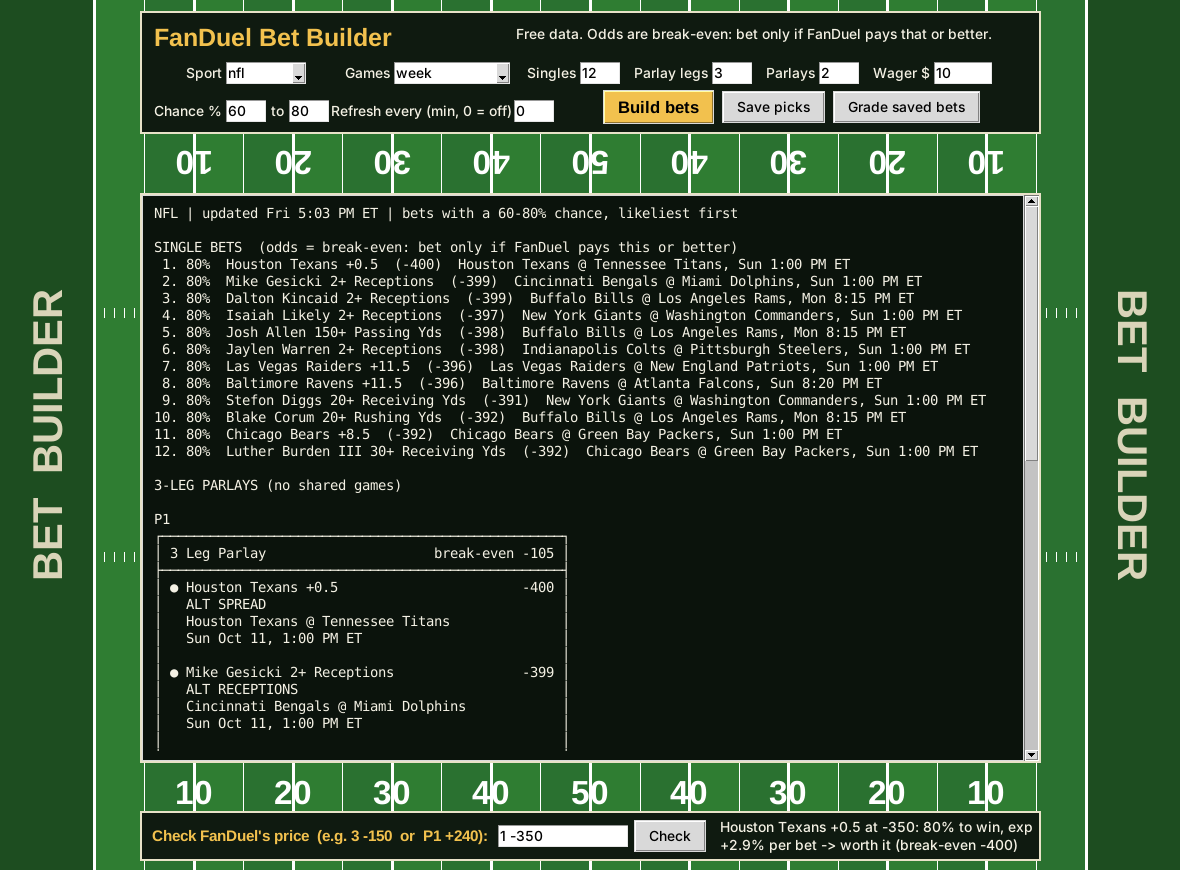
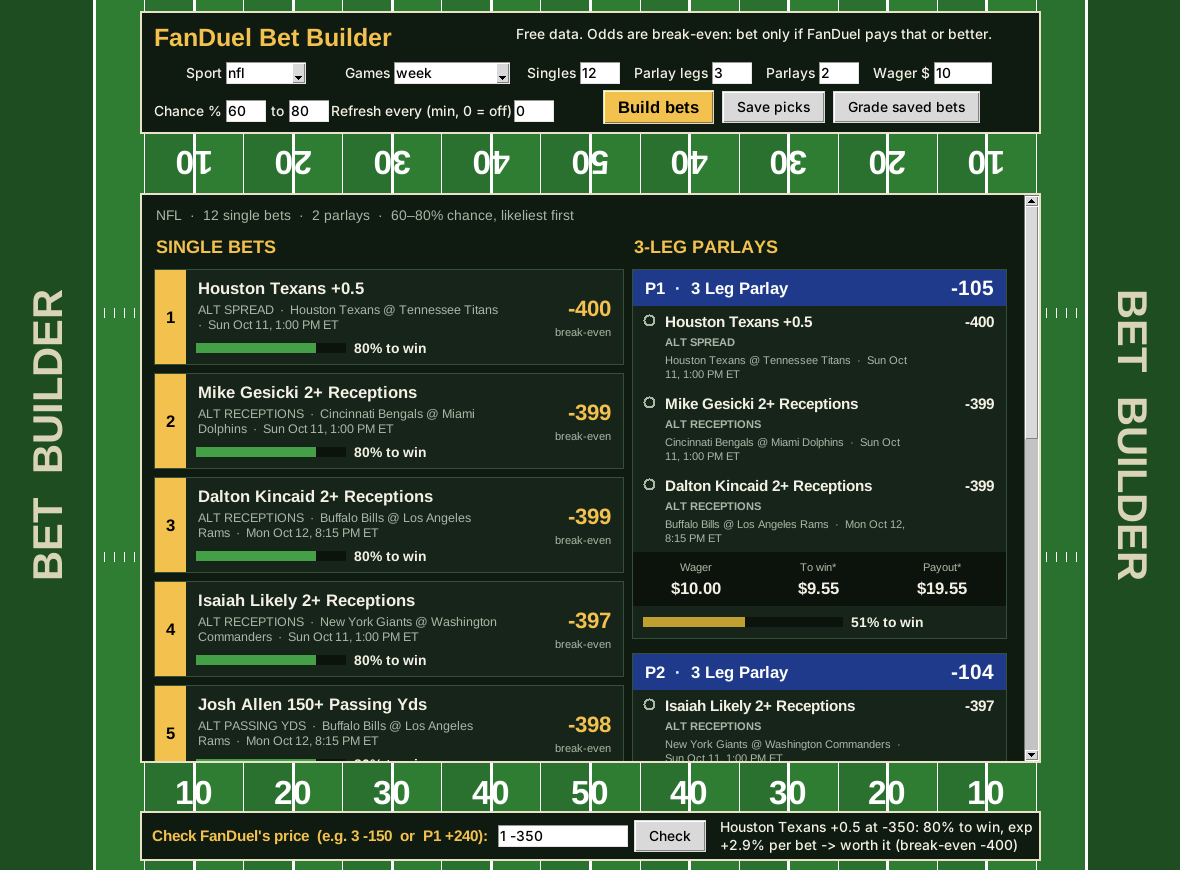
Show single bets and parlays as styled cards in the window
Single bets become numbered cards with the pick, market, game and kickoff,
a colored chance bar and a break-even odds badge (plus NEW / moved badges
on refresh). Parlays become slips with a header, legs with odds, a wager /
to-win / payout footer and a chance bar, in a scrollable two-column view.

Claude-Session: https://claude.ai/code/session_01FzCvELGmhGBdoQHEqCEwdE

diff --git a/bets_gui.py b/bets_gui.py
@@ -20,6 +20,8 @@ from tkinter import ttk
 
 import bets  # sets up paths for the standalone build
 from nfl_edge import data
+from nfl_edge.cli import _fmt_american, _slip_market, _slip_selection, _slip_time
+from nfl_edge.odds import decimal_to_american
 
 W, H = 1180, 870
 PANEL_W = W - 2 * W * 0.08 - 90  # leaves turf visible on both sides
@@ -28,6 +30,31 @@ TURF = ("#2f7d32", "#2a7130")  # alternating 5-yard stripes
 ENDZONE = "#1d4d20"
 PANEL, PANEL_EDGE, INK, GOLD = "#0f1a10", "#e8e2c8", "#f4f1e4", "#f2c14e"
 MONO = ("Menlo", 11) if sys.platform == "darwin" else ("Consolas", 10)
+CARD, CARD_EDGE, MUTED, SLIP_HEAD = "#16241a", "#35503a", "#a9b8a4", "#1f3a8a"
+NEW_BADGE, MOVED_BADGE = "#2e7dd1", "#b8741a"
+
+
+def chance_color(p: float) -> str:
+    """Green for likely, amber for middling, red for unlikely."""
+    if p >= 0.7:
+        return "#43a047"
+    if p >= 0.5:
+        return "#c0a030"
+    return "#c0503a"
+
+
+def chance_bar(parent: tk.Widget, p: float, bg: str, width: int = 150) -> tk.Frame:
+    row = tk.Frame(parent, bg=bg)
+    bar = tk.Canvas(row, width=width, height=10, bg="#0b130c", highlightthickness=0)
+    bar.create_rectangle(0, 0, width * p, 10, fill=chance_color(p), outline="")
+    bar.pack(side="left")
+    tk.Label(row, text=f"{p:.0%} to win", bg=bg, fg=INK,
+             font=("Helvetica", 10, "bold")).pack(side="left", padx=6)
+    return row
+
+
+def pill(parent: tk.Widget, text: str, bg: str, fg: str = "white") -> tk.Label:
+    return tk.Label(parent, text=f" {text} ", bg=bg, fg=fg, font=("Helvetica", 9, "bold"))
 
 
 def draw_field(c: tk.Canvas) -> None:
@@ -125,12 +152,18 @@ class App:
 
         # Output
         out = tk.Frame(c, bg=PANEL, highlightbackground=PANEL_EDGE, highlightthickness=2)
-        self.text = tk.Text(out, bg="#0b130c", fg=INK, insertbackground=INK, font=MONO,
-                            wrap="none", relief="flat", padx=10, pady=8)
-        scroll = ttk.Scrollbar(out, command=self.text.yview)
-        self.text.configure(yscrollcommand=scroll.set)
+        self.view = tk.Canvas(out, bg=PANEL, highlightthickness=0)
+        scroll = ttk.Scrollbar(out, command=self.view.yview)
+        self.view.configure(yscrollcommand=scroll.set)
         scroll.pack(side="right", fill="y")
-        self.text.pack(side="left", fill="both", expand=True)
+        self.view.pack(side="left", fill="both", expand=True)
+        self.body = tk.Frame(self.view, bg=PANEL)
+        self.view.create_window(0, 0, window=self.body, anchor="nw")
+        self.body.bind("<Configure>",
+                       lambda e: self.view.configure(scrollregion=self.view.bbox("all")))
+        for seq, step in (("<MouseWheel>", None), ("<Button-4>", -1), ("<Button-5>", 1)):
+            root.bind_all(seq, lambda e, s=step: self.view.yview_scroll(
+                s if s else (-1 if e.delta > 0 else 1) * (1 if sys.platform == "darwin" else 1), "units"))
         c.create_window(W / 2, 478, window=out, width=PANEL_W, height=570)
 
         # Price checker
@@ -159,10 +192,120 @@ class App:
             stake=float(self.stake.get() or 10), min_prob=float(self.lo.get() or 60),
             max_prob=float(self.hi.get() or 80), per_game=3, allow_overlap=False, games_file=None)
 
+    def clear(self) -> None:
+        for w in self.body.winfo_children():
+            w.destroy()
+        self.view.yview_moveto(0)
+
     def say(self, text: str, clear: bool = True) -> None:
+        """Plain text (messages, grading results) in the output area."""
         if clear:
-            self.text.delete("1.0", "end")
-        self.text.insert("end", text)
+            self.clear()
+        tk.Label(self.body, text=text, bg=PANEL, fg=INK, font=MONO, justify="left",
+                 anchor="nw").pack(anchor="nw", padx=12, pady=10)
+
+    def render(self, args, singles, parlays, previous) -> None:
+        self.clear()
+        head = tk.Frame(self.body, bg=PANEL)
+        head.pack(fill="x", padx=12, pady=(10, 4))
+        tk.Label(head, text=f"{args.sport.upper()}  ·  {len(singles)} single bets  ·  "
+                            f"{len(parlays)} parlays  ·  {args.min_prob:.0f}–{args.max_prob:.0f}% "
+                            "chance, likeliest first",
+                 bg=PANEL, fg=MUTED, font=("Helvetica", 10)).pack(side="left")
+        cols = tk.Frame(self.body, bg=PANEL)
+        cols.pack(fill="both", padx=8)
+        left, right = tk.Frame(cols, bg=PANEL), tk.Frame(cols, bg=PANEL)
+        left.pack(side="left", anchor="n", padx=4)
+        right.pack(side="left", anchor="n", padx=4)
+        # Invisible struts fix each column's width so both fit the window.
+        tk.Frame(left, bg=PANEL, width=470, height=1).pack()
+        tk.Frame(right, bg=PANEL, width=375, height=1).pack()
+
+        tk.Label(left, text="SINGLE BETS", bg=PANEL, fg=GOLD,
+                 font=("Helvetica", 13, "bold")).pack(anchor="w", pady=(4, 6))
+        if not singles:
+            tk.Label(left, text="None found. Try a wider chance range or another date.",
+                     bg=PANEL, fg=INK).pack(anchor="w")
+        for i, b in enumerate(singles, 1):
+            self.single_card(left, i, b, previous)
+
+        tk.Label(right, text=f"{args.legs}-LEG PARLAYS", bg=PANEL, fg=GOLD,
+                 font=("Helvetica", 13, "bold")).pack(anchor="w", pady=(4, 6))
+        if args.parlays and not parlays:
+            tk.Label(right, text="Not enough games for that many legs.", bg=PANEL,
+                     fg=INK).pack(anchor="w")
+        for i, p in enumerate(parlays, 1):
+            self.parlay_card(right, i, p, args.stake)
+        tk.Label(self.body, text="Odds shown are break-even: bet only if FanDuel pays that or "
+                                 "better. Check a price at the bottom.",
+                 bg=PANEL, fg=MUTED, font=("Helvetica", 9)).pack(anchor="w", padx=12, pady=8)
+
+    def single_card(self, parent, i: int, b, previous) -> None:
+        card = tk.Frame(parent, bg=CARD, highlightbackground=CARD_EDGE, highlightthickness=1)
+        card.pack(fill="x", pady=4)
+        tk.Label(card, text=str(i), bg=GOLD, fg="black", width=3,
+                 font=("Helvetica", 12, "bold")).pack(side="left", fill="y")
+        mid = tk.Frame(card, bg=CARD)
+        mid.pack(side="left", fill="both", expand=True, padx=10, pady=6)
+        top = tk.Frame(mid, bg=CARD)
+        top.pack(fill="x")
+        tk.Label(top, text=_slip_selection(b), bg=CARD, fg=INK,
+                 font=("Helvetica", 12, "bold")).pack(side="left")
+        old = previous.get(bets.label(b)) if previous else None
+        if previous and old is None:
+            pill(top, "NEW", NEW_BADGE).pack(side="left", padx=6)
+        elif old is not None and abs(old - b.fair_prob) >= 0.02:
+            pill(top, f"was {old:.0%}", MOVED_BADGE).pack(side="left", padx=6)
+        tk.Label(mid, text=f"{_slip_market(b)}  ·  {b.game}  ·  {_slip_time(b)}", bg=CARD,
+                 fg=MUTED, font=("Helvetica", 9), wraplength=300, justify="left").pack(anchor="w")
+        chance_bar(mid, b.fair_prob, CARD).pack(anchor="w", pady=(4, 0))
+        right = tk.Frame(card, bg=CARD)
+        right.pack(side="right", padx=10)
+        tk.Label(right, text=_fmt_american(decimal_to_american(1 / b.fair_prob)), bg=CARD,
+                 fg=GOLD, font=("Helvetica", 16, "bold")).pack(anchor="e")
+        tk.Label(right, text="break-even", bg=CARD, fg=MUTED,
+                 font=("Helvetica", 8)).pack(anchor="e")
+        if b.priced:
+            tk.Label(right, text=f"consensus {_fmt_american(b.fd_price)}", bg=CARD, fg=MUTED,
+                     font=("Helvetica", 8)).pack(anchor="e")
+
+    def parlay_card(self, parent, i: int, p, wager: float) -> None:
+        card = tk.Frame(parent, bg=CARD, highlightbackground=CARD_EDGE, highlightthickness=1)
+        card.pack(fill="x", pady=(4, 10))
+        odds = _fmt_american(decimal_to_american(1 / p.win_prob))
+        head = tk.Frame(card, bg=SLIP_HEAD)
+        head.pack(fill="x")
+        tk.Label(head, text=f"P{i}  ·  {len(p.legs)} Leg Parlay", bg=SLIP_HEAD, fg="white",
+                 font=("Helvetica", 12, "bold")).pack(side="left", padx=10, pady=6)
+        tk.Label(head, text=odds, bg=SLIP_HEAD, fg="white",
+                 font=("Helvetica", 15, "bold")).pack(side="right", padx=10)
+        for b in p.legs:
+            leg = tk.Frame(card, bg=CARD)
+            leg.pack(fill="x", padx=10, pady=5)
+            dot = tk.Canvas(leg, width=12, height=12, bg=CARD, highlightthickness=0)
+            dot.create_oval(1, 1, 11, 11, outline=MUTED, width=2)
+            dot.pack(side="left", anchor="n", pady=3)
+            tk.Label(leg, text=_fmt_american(decimal_to_american(1 / b.fair_prob)), bg=CARD,
+                     fg=INK, font=("Helvetica", 11, "bold")).pack(side="right", anchor="n")
+            txt = tk.Frame(leg, bg=CARD)
+            txt.pack(side="left", padx=8)
+            tk.Label(txt, text=_slip_selection(b), bg=CARD, fg=INK, wraplength=250,
+                     justify="left", font=("Helvetica", 11, "bold")).pack(anchor="w")
+            tk.Label(txt, text=_slip_market(b), bg=CARD, fg=MUTED,
+                     font=("Helvetica", 8, "bold")).pack(anchor="w")
+            tk.Label(txt, text=f"{b.game}  ·  {_slip_time(b)}", bg=CARD, fg=MUTED,
+                     font=("Helvetica", 8), wraplength=250, justify="left").pack(anchor="w")
+        foot = tk.Frame(card, bg="#0b130c")
+        foot.pack(fill="x")
+        payout = wager / p.win_prob
+        for title, value in (("Wager", f"${wager:,.2f}"), ("To win*", f"${payout - wager:,.2f}"),
+                             ("Payout*", f"${payout:,.2f}")):
+            box = tk.Frame(foot, bg="#0b130c")
+            box.pack(side="left", expand=True, pady=6)
+            tk.Label(box, text=title, bg="#0b130c", fg=MUTED, font=("Helvetica", 8)).pack()
+            tk.Label(box, text=value, bg="#0b130c", fg=INK,
+                     font=("Helvetica", 12, "bold")).pack()
+        chance_bar(card, p.win_prob, CARD, width=200).pack(anchor="w", padx=10, pady=6)
 
     def build(self) -> None:
         try:
@@ -195,14 +338,14 @@ class App:
             self.say(f"Couldn't load data: {item[1]}\n")
         else:
             _, args, self.singles, self.parlays, text = item
-            self.say(text.lstrip("\n"))
+            self.render(args, self.singles, self.parlays, self.previous)
             self.previous = {bets.label(b): b.fair_prob for b in self.singles}
             minutes = float(self.refresh.get() or 0)
             if minutes > 0:
                 data.FRESH_SECONDS = min(data.FRESH_SECONDS, minutes * 60)
                 self.root.after(int(minutes * 60_000), self.build)
         if self.selftest:
-            print(self.text.get("1.0", "end")[:400])
+            print(f"{len(self.singles)} singles, {len(self.parlays)} parlays rendered")
             self.root.after(500, self.root.destroy)
             return
         self.root.after(150, self.poll)
